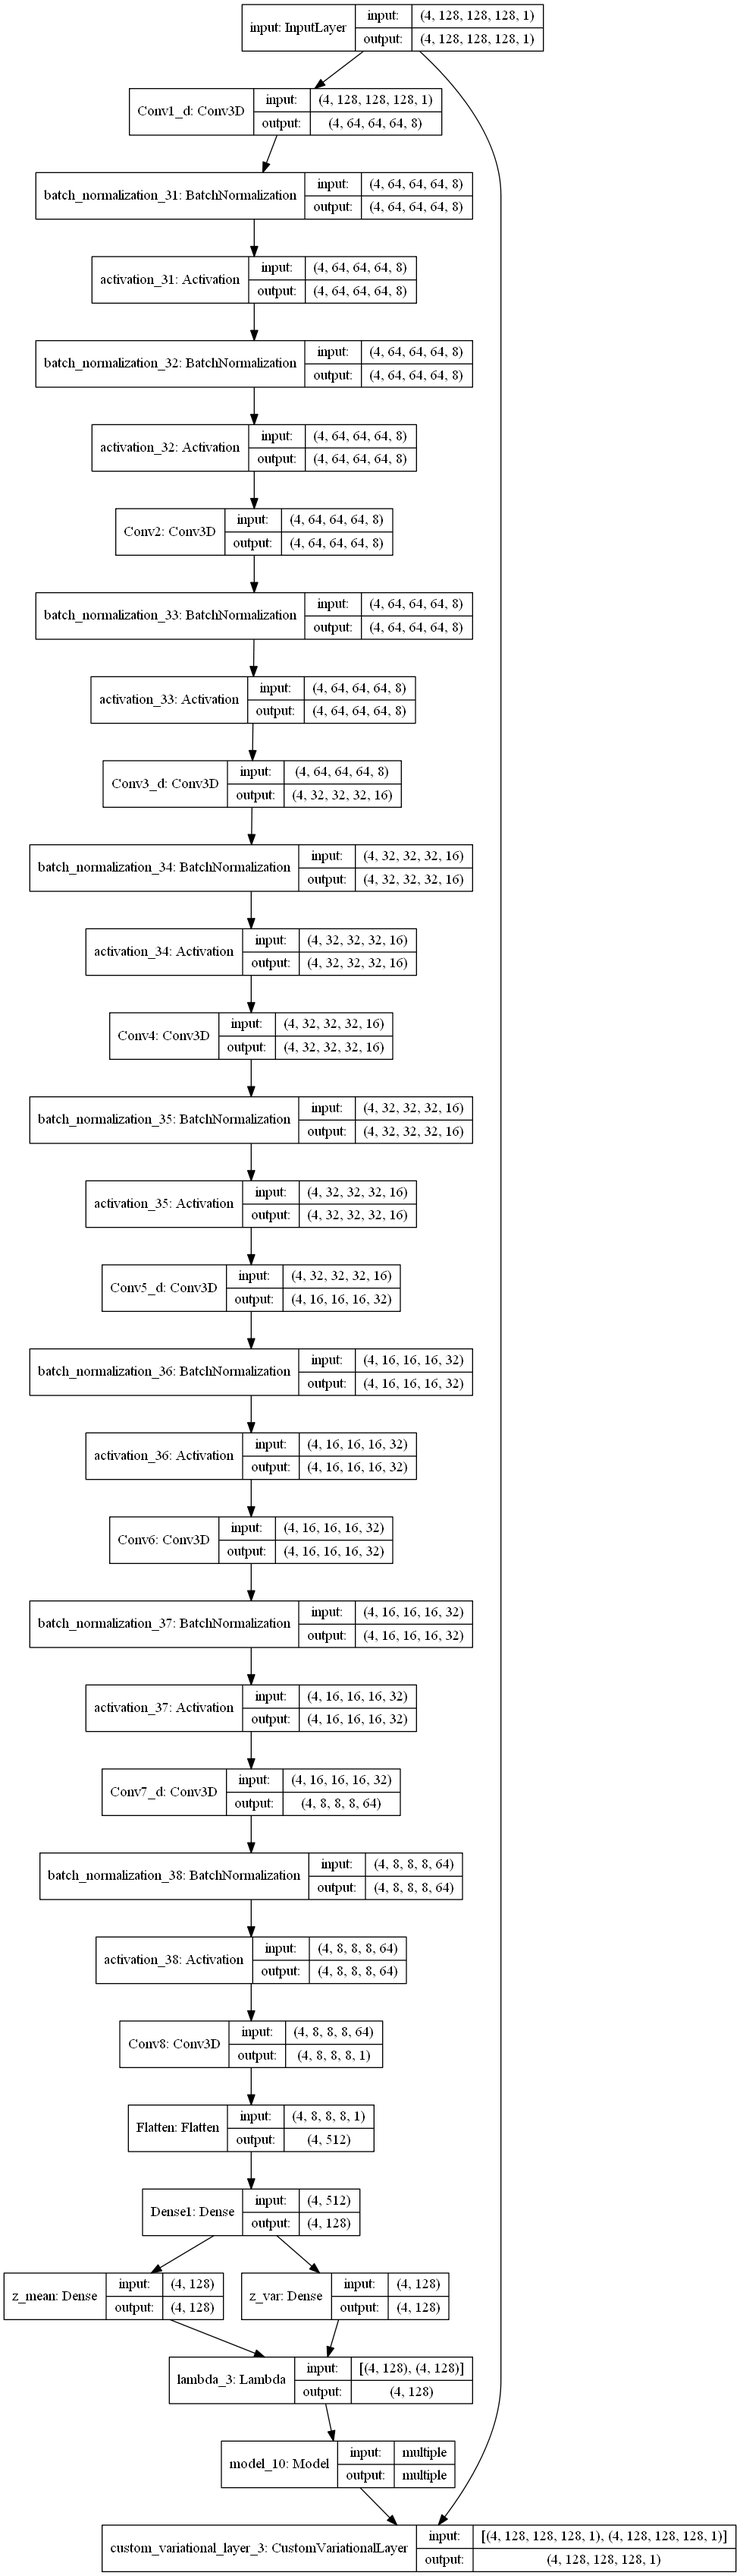
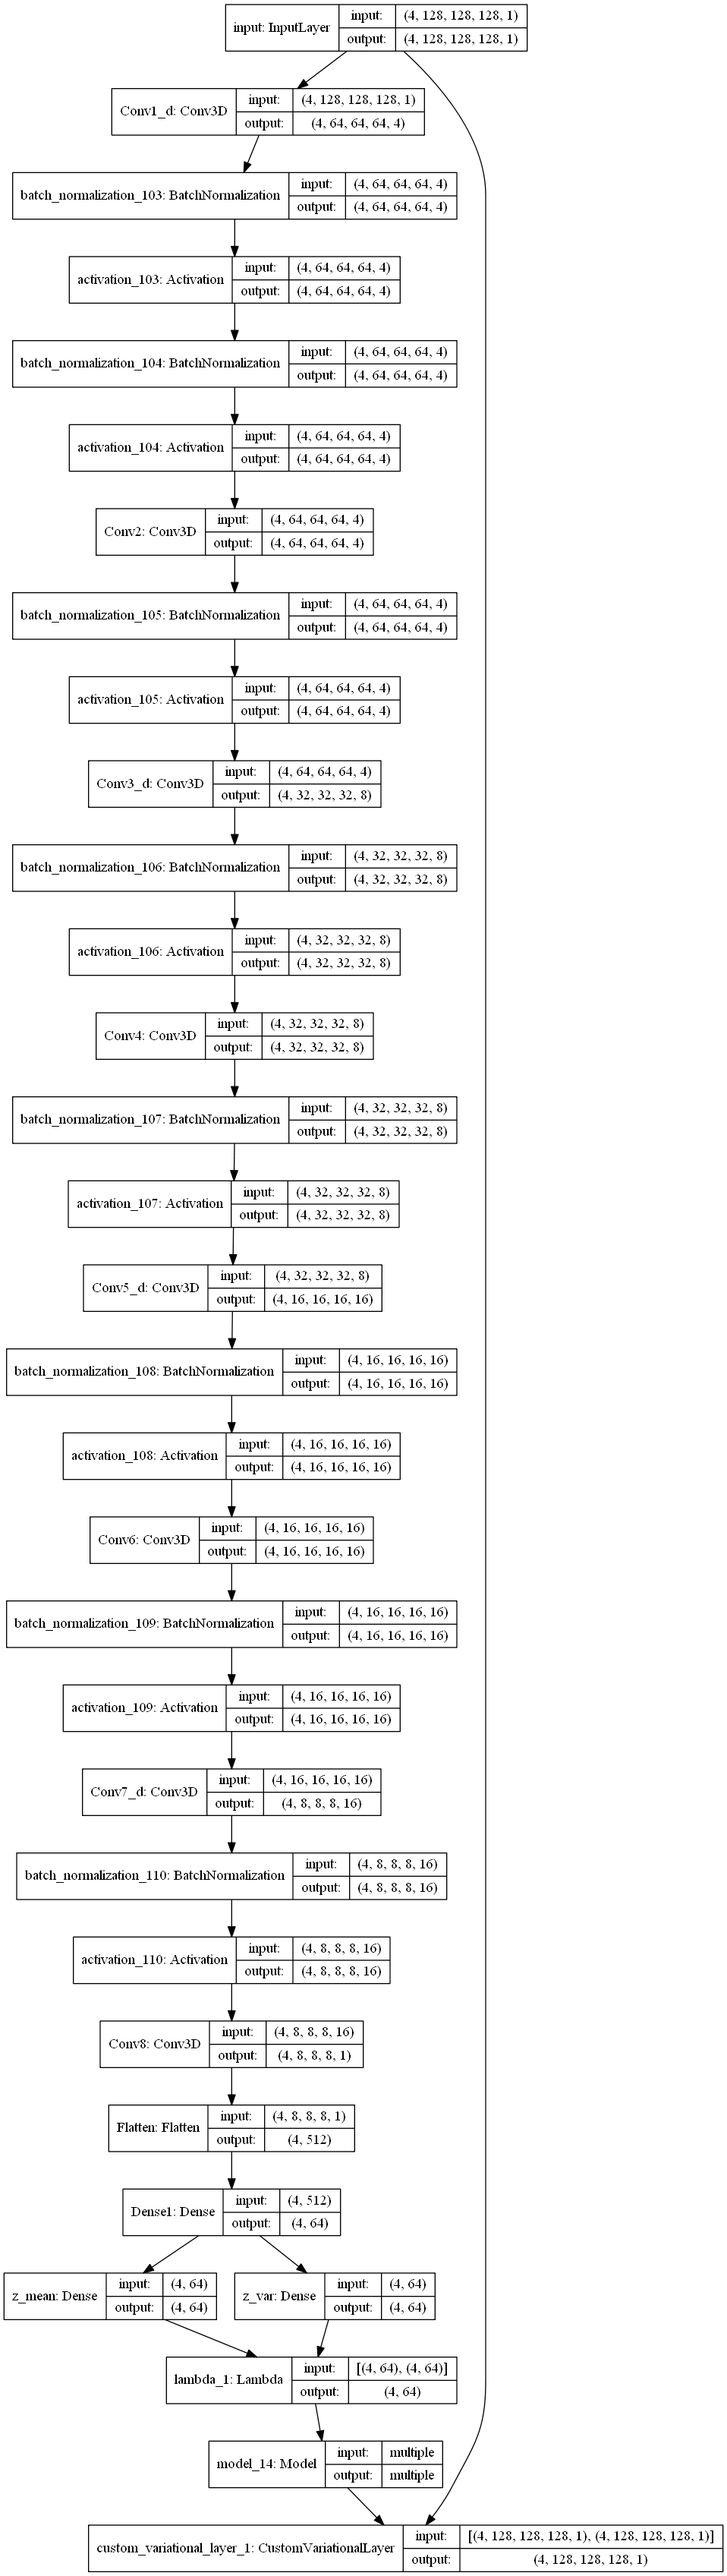
Reduced model complexity to prevent overfitting

diff --git a/Train_AE.py b/Train_AE.py
@@ -52,7 +52,7 @@ if continueFromLatRun:
    myPrint('...Validation images:      {0}'.format(len(dTrain)), path=currDir)
  
 else:
-    dTrain, dValid, _, _ = prepare_dataset(datasetDir, split=0.85, logPath=currDir)
+    dTrain, dValid, _, _ = prepare_dataset(datasetDir, split=0.955, logPath=currDir)
 
 ## Add random noise before training!
 #myPrint('...Adding noise to images N(0,0.33)', path=currDir)
@@ -90,8 +90,12 @@ def dice_coef(y_true, y_pred, smooth=1.):
     intersection = K.sum(y_true_f * y_pred_f)
     return (2. * intersection + smooth) / (K.sum(y_true_f) + K.sum(y_pred_f) + smooth)
 
-def dice_coef_loss(y_true, y_pred):
-    return -dice_coef(y_true, y_pred)
+def myLoss(y_true, y_pred):
+    a = 0.5
+    BCE = tf.keras.losses.binary_crossentropy(y_true, y_pred)
+    DCE = -dice_coef(y_true, y_pred)
+    myLoss = a*BCE + (1-a)*DCE
+    return myLoss
 
 def summary(model): # Compute number of params in a model (the actual number of floats)
     trainParams = sum([np.prod(K.get_value(w).shape) for w in model.trainable_weights])
@@ -101,7 +105,7 @@ def summary(model): # Compute number of params in a model (the actual number of 
 
 img_size = dTrain.shape[1:]
 #img_size = (None, None, None, 1)
-latent_dim = 128
+latent_dim = 64
 batch_size = 1
 myPrint('...Input image size: {}'.format(img_size), path=currDir)
 myPrint('...Batch size: {}'.format(batch_size), path=currDir)
@@ -120,7 +124,7 @@ lr_metric = get_lr_metric(opt)
 if model == 'CAE':
     fullModel = CAE_3D.FullModel(img_size, latent_dim)
     encoder = CAE_3D.get_encoder_from_CAE3D(fullModel)
-    fullModel.compile(optimizer=opt, loss=dice_coef_loss, metrics=[lr_metric],
+    fullModel.compile(optimizer=opt, loss=myLoss, metrics=[dice_coef, lr_metric],
             options=run_opts)
 
 elif model == 'CVAE':
@@ -156,25 +160,31 @@ class MyCallback(tf.keras.callbacks.Callback):
         lr_with_decay = lr / (1. + decay * epoch)
         myLog(str(epoch) +'\t' + str(K.eval(lr_with_decay)) +'\t' + str(logs.get("loss")) +'\t' + str(logs.get("val_loss")), path=currDir)
 
-weights_file = weightsDir + model + "_3D_model.hdf5"
+weights_file_v = weightsDir + model + "_3D_model_v.hdf5"
+weights_file_t = weightsDir + model + "_3D_model_t.hdf5"
 
-if continueFromLatRun:
-    fullModel.load_weights(weights_file)
+#if continueFromLatRun:
+#    fullModel.load_weights(weights_file)
 
 epochs=200        
 #weights_file = "CAE_3D_model-{epoch:02d}-{val_loss:.2f}.hdf5"
-model_checkpoint = tf.keras.callbacks.ModelCheckpoint(weights_file,
+model_checkpoint_v = tf.keras.callbacks.ModelCheckpoint(weights_file_v,
                                                       monitor='val_loss',
+                                                      verbose=1,
+                                                      save_best_only=True,
+                                                      save_weights_only=True)
+model_checkpoint_t = tf.keras.callbacks.ModelCheckpoint(weights_file_t,
+                                                      monitor='loss',
                                                       verbose=1,
                                                       save_best_only=True,
                                                       save_weights_only=True)
 logger = tf.keras.callbacks.CSVLogger(currDir+'/reports/training.log', separator='\t')
 tensorBoard = tf.keras.callbacks.TensorBoard(log_dir='./tensorboard/'+model+currRun)
 lrs = tf.keras.callbacks.LearningRateScheduler(lambda epoch: lr / (1. + decay * epoch))
-callbacks = [tensorBoard, model_checkpoint, logger, MyCallback(), lrs]
+callbacks = [tensorBoard, model_checkpoint_v, model_checkpoint_t, logger, MyCallback(), lrs]
 if model == 'CAE':
-    fullModel.fit(dTrain, dTrain, shuffle=True, epochs=epochs, batch_size=batch_size,
-           validation_data=(dValid, dValid), callbacks=callbacks)
+    fullModel.fit(dTrain_noisy, dTrain, shuffle=True, epochs=epochs, batch_size=batch_size,
+           validation_data=(dValid_noisy, dValid), callbacks=callbacks)
 if model == 'CVAE':
     fullModel.fit(dTrain, shuffle=True, epochs=epochs, batch_size=batch_size,
                validation_data=(dValid, None), callbacks=callbacks)

diff --git a/Models/CVAE_3D.py b/Models/CVAE_3D.py
@@ -43,32 +43,32 @@ def BNUpConv(xin, filters, strides, name):
                                         padding='same', activation=None, name=name)(x)
     return x
 
-def Generator(latent_dim):
+def Generator(latent_dim, d=2):
     generator_input = tf.keras.layers.Input(shape=(latent_dim,), name='input')
     x = tf.keras.layers.Dense(512, activation='relu', name='Dense2')(generator_input)
     x = tf.keras.layers.Reshape((8,8,8,1), name='Reshape')(x)
-    x = UpConvBN(x, filters=32, strides=(2,2,2), name='UpConv1')
-    x = BNConv(x, filters=32, strides=(1,1,1), name='Conv9')
-    x = UpConvBN(x, filters=16, strides=(2,2,2), name='UpConv2')
-    x = BNConv(x, filters=16, strides=(1,1,1), name='Conv10')
-    x = UpConvBN(x, filters=8, strides=(2,2,2), name='UpConv3')
-    x = BNConv(x, filters=8, strides=(1,1,1), name='Conv11')
-    x = UpConvBN(x, filters=8, strides=(2,2,2), name='UpConv4')
+    x = UpConvBN(x, filters=int(32/d), strides=(2,2,2), name='UpConv1')
+    x = BNConv(x, filters=int(32/d), strides=(1,1,1), name='Conv9')
+    x = UpConvBN(x, filters=int(16/d), strides=(2,2,2), name='UpConv2')
+    x = BNConv(x, filters=int(16/d), strides=(1,1,1), name='Conv10')
+    x = UpConvBN(x, filters=int(8/d), strides=(2,2,2), name='UpConv3')
+    x = BNConv(x, filters=int(8/d), strides=(1,1,1), name='Conv11')
+    x = UpConvBN(x, filters=int(8/d), strides=(2,2,2), name='UpConv4')
     x_generated = tf.keras.layers.Conv3D(filters=1, kernel_size=(3,3,3), strides=(1,1,1),
                                padding='same', activation='sigmoid', name='output')(x)
     generator = tf.keras.Model(generator_input, x_generated)
     return generator
     
-def CVAE(img_size, batch_size, latent_dim):
+def CVAE(img_size, batch_size, latent_dim, d=2):
     inLayer = tf.keras.layers.Input(batch_shape=(batch_size,) + img_size, name='input')
 #    inLayer = tf.keras.layers.Input(shape=img_size, name='input')
-    x = ConvBN(inLayer, filters=8, strides=(2,2,2), name='Conv1_d')
-    x = BNConv(x, filters=8, strides=(1,1,1), name='Conv2')
-    x = BNConv(x, filters=16, strides=(2,2,2), name='Conv3_d')
-    x = BNConv(x, filters=16, strides=(1,1,1), name='Conv4')
-    x = BNConv(x, filters=32, strides=(2,2,2), name='Conv5_d')
-    x = BNConv(x, filters=32, strides=(1,1,1), name='Conv6')
-    x = BNConv(x, filters=64, strides=(2,2,2), name='Conv7_d')
+    x = ConvBN(inLayer, filters=int(8/d), strides=(2,2,2), name='Conv1_d')
+    x = BNConv(x, filters=int(8/d), strides=(1,1,1), name='Conv2')
+    x = BNConv(x, filters=int(16/d), strides=(2,2,2), name='Conv3_d')
+    x = BNConv(x, filters=int(16/d), strides=(1,1,1), name='Conv4')
+    x = BNConv(x, filters=int(32/d), strides=(2,2,2), name='Conv5_d')
+    x = BNConv(x, filters=int(32/d), strides=(1,1,1), name='Conv6')
+    x = BNConv(x, filters=int(32/d), strides=(2,2,2), name='Conv7_d')
     x = BNConv(x, filters=1, strides=(1,1,1), name='Conv8')
     x = tf.keras.layers.Flatten(name='Flatten')(x)
     x = tf.keras.layers.Dense(latent_dim, activation='sigmoid', name='Dense1')(x)
@@ -122,7 +122,7 @@ def CVAE(img_size, batch_size, latent_dim):
 if __name__ == '__main__':
     img_size = (128,128,128,1)
     batch_size = 4
-    latent_dim = 128
+    latent_dim = 64
     encoder, generator, CVAE_3D = CVAE(img_size, batch_size, latent_dim)
     CVAE_3D.summary()
     tf.keras.utils.plot_model(CVAE_3D, to_file='CVAE_Model.png', show_shapes=True)

diff --git a/Models/CAE_3D.py b/Models/CAE_3D.py
@@ -69,15 +69,15 @@ def get_encoder_from_CAE3D(model):
 #    return decoder
 
 
-def FullModel(img_size, latent_dim):
+def FullModel(img_size, latent_dim, d=2):
     inLayer = tf.keras.layers.Input(shape=img_size, name='input')
-    x = ConvBN(inLayer, filters=8, strides=(2,2,2), name='Conv1_d')
-    x = BNConv(x, filters=8, strides=(1,1,1), name='Conv2')
-    x = BNConv(x, filters=16, strides=(2,2,2), name='Conv3_d')
-    x = BNConv(x, filters=16, strides=(1,1,1), name='Conv4')
-    x = BNConv(x, filters=32, strides=(2,2,2), name='Conv5_d')
-    x = BNConv(x, filters=32, strides=(1,1,1), name='Conv6')
-    x = BNConv(x, filters=64, strides=(2,2,2), name='Conv7_d')
+    x = ConvBN(inLayer, filters=8/d, strides=(2,2,2), name='Conv1_d')
+    x = BNConv(x, filters=int(8/d), strides=(1,1,1), name='Conv2')
+    x = BNConv(x, filters=int(16/d), strides=(2,2,2), name='Conv3_d')
+    x = BNConv(x, filters=int(16/d), strides=(1,1,1), name='Conv4')
+    x = BNConv(x, filters=int(32/d), strides=(2,2,2), name='Conv5_d')
+    x = BNConv(x, filters=int(32/d), strides=(1,1,1), name='Conv6')
+    x = BNConv(x, filters=int(32/d), strides=(2,2,2), name='Conv7_d')
     c = BNConv(x, filters=1, strides=(1,1,1), name='Conv8')
 #    x = tf.keras.layers.Reshape((512,))(c)
     x = tf.keras.layers.Flatten(name='Flatten')(c)
@@ -86,14 +86,14 @@ def FullModel(img_size, latent_dim):
     x = tf.keras.layers.Dense(512, activation='relu', name='Dense')(encoded)
 #    x = tf.keras.layers.Reshape(c.shape[1:])(x)
     x = tf.keras.layers.Reshape((8,8,8,1), name='Reshape')(x)
-    x = UpConvBN(x, filters=64, strides=(2,2,2), name='UpConv1')
-    x = BNConv(x, filters=32, strides=(1,1,1), name='Conv9')
-    x = BNUpConv(x, filters=32, strides=(2,2,2), name='UpConv2')
-    x = BNConv(x, filters=16, strides=(1,1,1), name='Conv10')
-    x = BNUpConv(x, filters=16, strides=(2,2,2), name='UpConv3')
-    x = BNConv(x, filters=8, strides=(1,1,1), name='Conv11')
-    x = BNUpConv(x, filters=8, strides=(2,2,2), name='UpConv4')
-    x = BNConv(x, filters=8, strides=(1,1,1), name='Conv12')
+    x = UpConvBN(x, filters=int(32/d), strides=(2,2,2), name='UpConv1')
+    x = BNConv(x, filters=int(32/d), strides=(1,1,1), name='Conv9')
+    x = BNUpConv(x, filters=int(32/d), strides=(2,2,2), name='UpConv2')
+    x = BNConv(x, filters=int(16/d), strides=(1,1,1), name='Conv10')
+    x = BNUpConv(x, filters=int(16/d), strides=(2,2,2), name='UpConv3')
+    x = BNConv(x, filters=int(8/d), strides=(1,1,1), name='Conv11')
+    x = BNUpConv(x, filters=int(8/d), strides=(2,2,2), name='UpConv4')
+    x = BNConv(x, filters=int(8/d), strides=(1,1,1), name='Conv12')
     x = tf.keras.layers.Conv3D(filters=1, kernel_size=1)(x)
     x = tf.keras.layers.BatchNormalization()(x)
     x = tf.keras.layers.Activation('sigmoid')(x)
@@ -104,7 +104,7 @@ def FullModel(img_size, latent_dim):
 if __name__ == '__main__':
 #    img_size = (None,None,None,1)
     img_size = (128,128,128,1)
-    latent_dim = 128
+    latent_dim = 64
     CAE3D = FullModel(img_size, latent_dim)
     CAE3D.summary()
     encoder = get_encoder_from_CAE3D(CAE3D)

diff --git a/Predict_AE.py b/Predict_AE.py
@@ -27,11 +27,11 @@ K.set_session(session)
 from Models import CAE_3D, CVAE_3D
 from Utils.load_dataset import load_list
 
-#modelName = 'CAE'
 modelName = 'CVAE'
+#modelName = 'CVAE'
 noisy = False
 resultsDir = './Results/'
-run = 'run-2'
+run = 'run-1'
 currDir = resultsDir + modelName  + '/' + run
 
 listPath = currDir + '/reports/validation_list.txt' 
